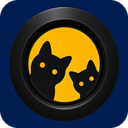
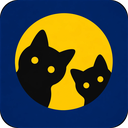
New product art, with the Linux derivatives generated from it
The icon carried a black ring between the navy field and the yellow moon
-- about 49px at 1024, roughly 5% of the canvas -- which read as a heavy
border beside flatter neighbours in a dock or launcher. The new artwork
has the moon meeting the field directly, so this replaces the source
rather than retouching an output.

art/hls-livecam-server.png is the single source. gui/assets/icon_1024.png
and pkg/usr/share/hls-livecam-server/brand.png are both regenerated from
it with the repo's own generators, not downscaled from each other.

art/README.md now records how, and the two traps that cost time here: the
corner is a continuous superellipse rather than a circular-arc rounded
rectangle, so make-app-icon.py clones the silhouette's alpha instead of
drawing one; and the source draws its own corners in black, which survives
just inside the arc and fringes all four corners unless it is masked away.

Measured after: icon navy@100 meets yellow@185 with one pixel between,
brand navy@0 meets yellow@13, all four corners transparent in both.

Claude-Session: https://claude.ai/code/session_01SKvBsAuT3sxvPJFMhisnDL

diff --git a/art/README.md b/art/README.md
@@ -13,3 +13,33 @@ is how a fork ends up branded as the thing it forked from.
 Source images are RGB with no alpha. The viewer header sits on a dark
 housing, so a derivative needs a transparent or matched background rather
 than the white one that comes out of a naive resize.
+
+---
+
+## Derivatives, and how they are built
+
+Everything below comes from `hls-livecam-server.png`. Nothing is retouched
+by hand, and nothing is downscaled from another derivative.
+
+    scripts/make-app-icon.py --art art/hls-livecam-server.png \
+        --shape <previous icon> --out gui/assets/icon_1024.png
+    scripts/make-brand-mark.py --product livecam --full-tile --size 128
+
+On macOS the icon set and `.icns` are then built with `sips` and
+`iconutil -c icns`, and copied on to `packaging/` and the app bundle.
+
+Two traps worth keeping written down:
+
+**The corner is a continuous superellipse, not a circular-arc rounded
+rectangle.** `make-app-icon.py` clones the silhouette's alpha from the icon
+it replaces rather than drawing one, because a radius-based mask is the wrong
+curve and looks subtly wrong beside other icons in a dock or launcher.
+
+**The source draws its own corners in black.** Cutting the tile with alpha
+leaves that black just inside the arc and fringes all four corners. The
+generator masks it; anything else working on this art has to handle it rather
+than assume the corners are background.
+
+The generators need Pillow and numpy. On ariana `.venv/bin/python` has both
+and the system interpreters do not.
+
